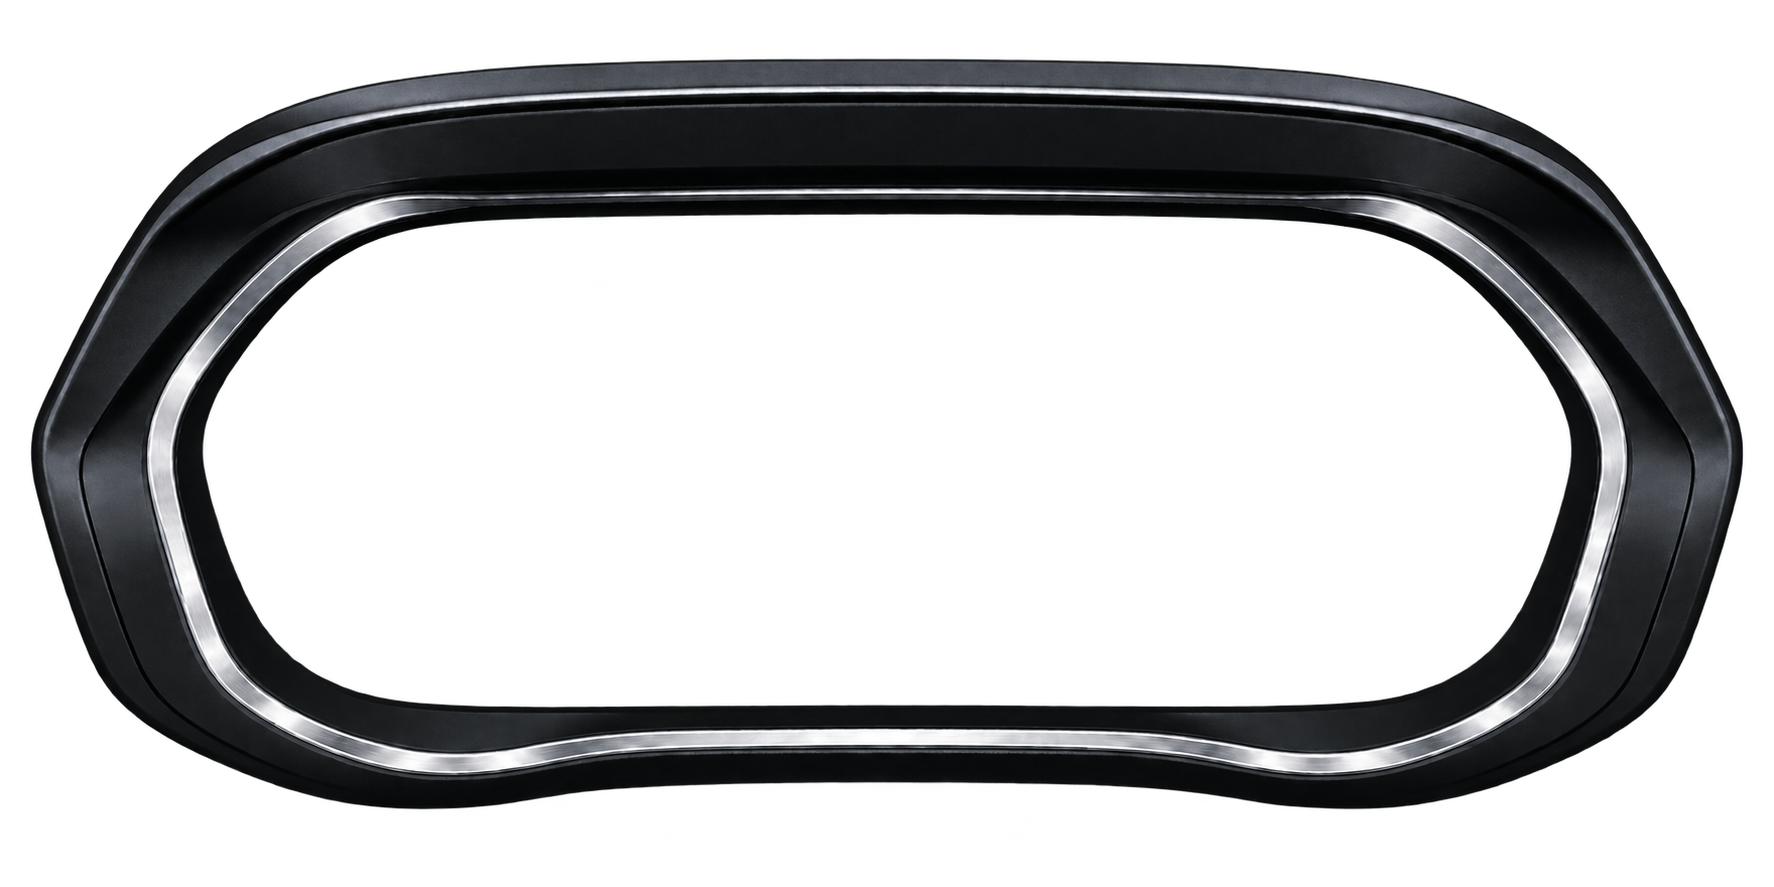
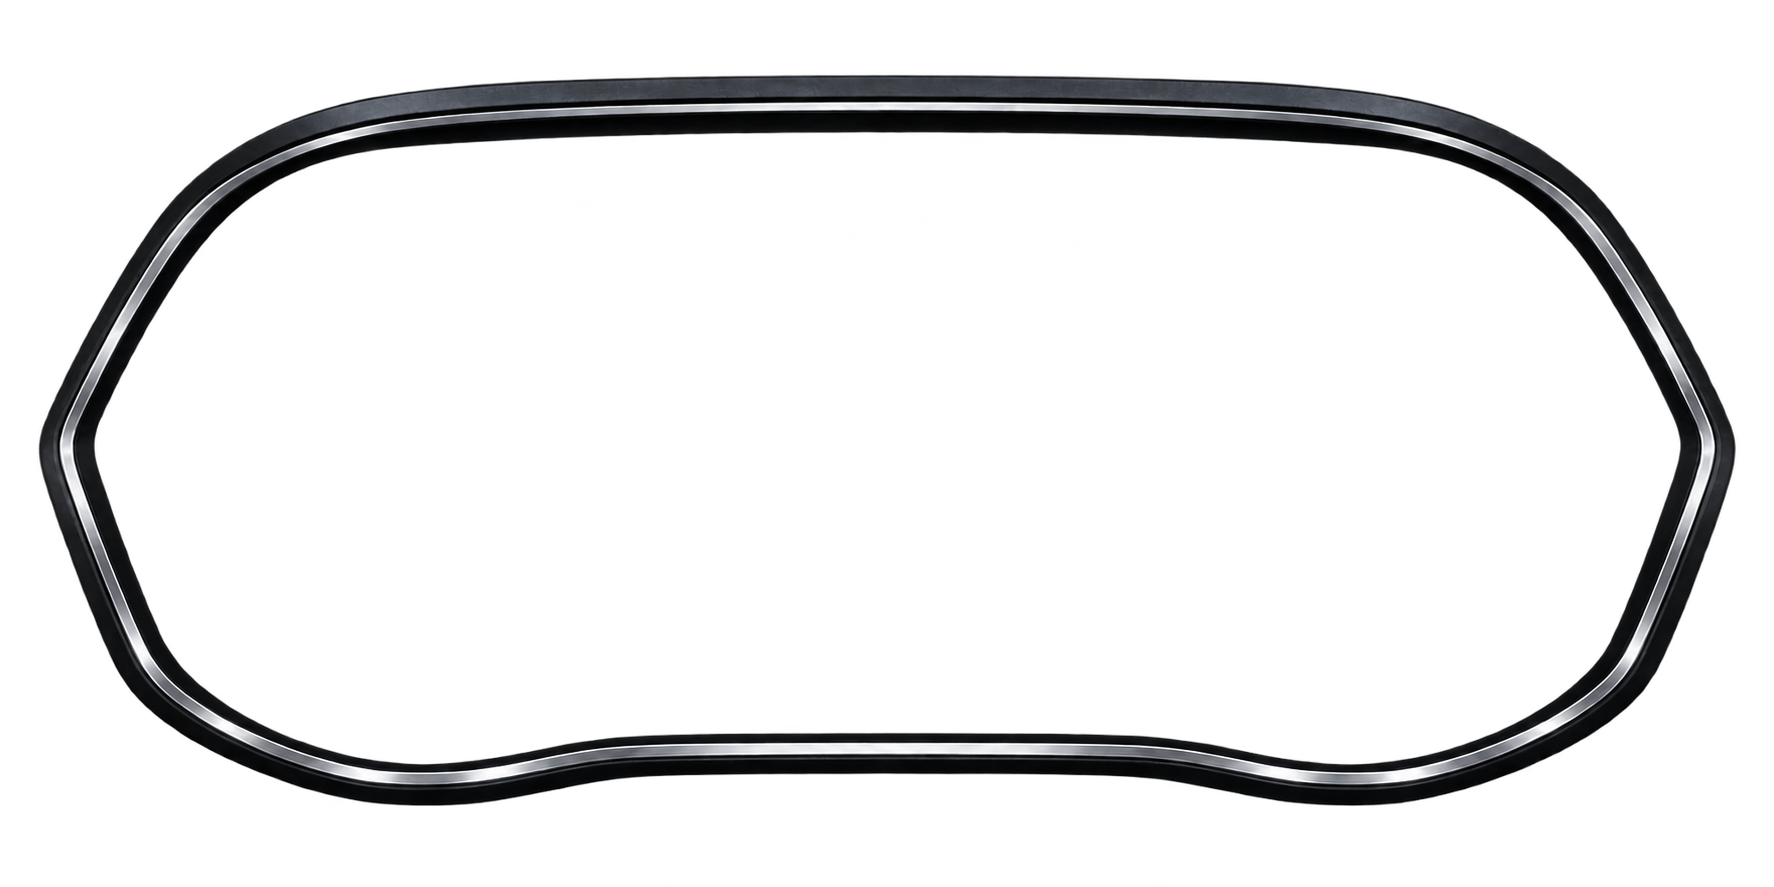
refine thin bezel and balanced cluster layout

Changed region(s): [[0.0, 0.0609, 0.9921, 0.9132]]

diff --git a/BasicApp/main.qml b/BasicApp/main.qml
@@ -64,7 +64,7 @@ Window {
         transformOrigin: Item.Center
         scale: Math.min(window.width / width, window.height / height)
 
-        // Nen ngoai va vung man hinh nam phia sau asset bezel that.
+        // Nen xanh-den phu toan man hinh, toa sang nhe tu tam cluster.
         Canvas {
             id: clusterBody
             anchors.fill: parent
@@ -73,40 +73,19 @@ Window {
 
             onAvailableChanged: if (available) requestPaint()
 
-            function innerPath(ctx) {
-                ctx.beginPath()
-                ctx.moveTo(260, 142)
-                ctx.bezierCurveTo(199, 143, 148, 174, 123, 235)
-                ctx.bezierCurveTo(96, 301, 109, 393, 159, 454)
-                ctx.bezierCurveTo(187, 487, 225, 498, 278, 499)
-                ctx.bezierCurveTo(358, 502, 436, 490, 512, 502)
-                ctx.bezierCurveTo(588, 490, 666, 502, 746, 499)
-                ctx.bezierCurveTo(800, 498, 838, 487, 865, 454)
-                ctx.bezierCurveTo(915, 393, 928, 301, 901, 235)
-                ctx.bezierCurveTo(876, 174, 825, 143, 764, 142)
-                ctx.closePath()
-            }
-
             onPaint: {
                 var ctx = getContext("2d")
                 ctx.reset()
 
-                var outside = ctx.createLinearGradient(0, 0, 0, height)
-                outside.addColorStop(0.0, "#f4f6f8")
-                outside.addColorStop(0.62, "#e4e8ec")
-                outside.addColorStop(1.0, "#cbd2d8")
-                ctx.fillStyle = outside
-                ctx.fillRect(0, 0, width, height)
-
-                innerPath(ctx)
-                var display = ctx.createRadialGradient(515, 285, 25,
-                                                       515, 300, 535)
-                display.addColorStop(0.0, "#071a29")
-                display.addColorStop(0.38, "#03101a")
-                display.addColorStop(0.75, "#010509")
+                var display = ctx.createRadialGradient(512, 285, 12,
+                                                       512, 300, 630)
+                display.addColorStop(0.0, "#0a2b46")
+                display.addColorStop(0.28, "#071d30")
+                display.addColorStop(0.58, "#03101b")
+                display.addColorStop(0.82, "#01070c")
                 display.addColorStop(1.0, "#000204")
                 ctx.fillStyle = display
-                ctx.fill()
+                ctx.fillRect(0, 0, width, height)
             }
         }
 
@@ -114,10 +93,10 @@ Window {
         CustomGauge {
             id: speedGauge
             z: 2
-            x: 57
-            y: 118
-            width: 400
-            height: 400
+            x: 65
+            y: 128
+            width: 360
+            height: 360
             minValue: 0
             maxValue: 240
             majorStep: 20
@@ -141,10 +120,10 @@ Window {
         CustomGauge {
             id: rpmGauge
             z: 2
-            x: 644
-            y: 147
-            width: 334
-            height: 334
+            x: 619
+            y: 148
+            width: 320
+            height: 320
             minValue: 0
             maxValue: 8
             majorStep: 1
@@ -169,7 +148,7 @@ Window {
             id: topInformation
             z: 4
             x: 357
-            y: 148
+            y: 78
             width: 322
             height: 61
 
@@ -233,7 +212,7 @@ Window {
         Text {
             z: 4
             x: 430
-            y: 196
+            y: 145
             width: 170
             horizontalAlignment: Text.AlignHCenter
             text: window.driveMode
@@ -246,7 +225,7 @@ Window {
             id: rangeInformation
             z: 4
             x: 415
-            y: 226
+            y: 174
             width: 202
             height: 43
 
@@ -298,7 +277,7 @@ Window {
             id: roadScene
             z: 1
             x: 352
-            y: 264
+            y: 235
             width: 324
             height: 251
             renderTarget: Canvas.Image
@@ -373,7 +352,7 @@ Window {
             id: carPlaceholder
             z: 3
             x: 475
-            y: 349
+            y: 330
             width: 78
             height: 58
 
@@ -413,7 +392,7 @@ Window {
         Item {
             z: 4
             x: 423
-            y: 449
+            y: 455
             width: 184
             height: 36
 
@@ -448,7 +427,10 @@ Window {
         Image {
             id: clusterBezel
             z: 10
-            anchors.fill: parent
+            x: -24
+            y: -60
+            width: 1072
+            height: 720
             source: "images/cluster-bezel.png"
             fillMode: Image.Stretch
             smooth: true
